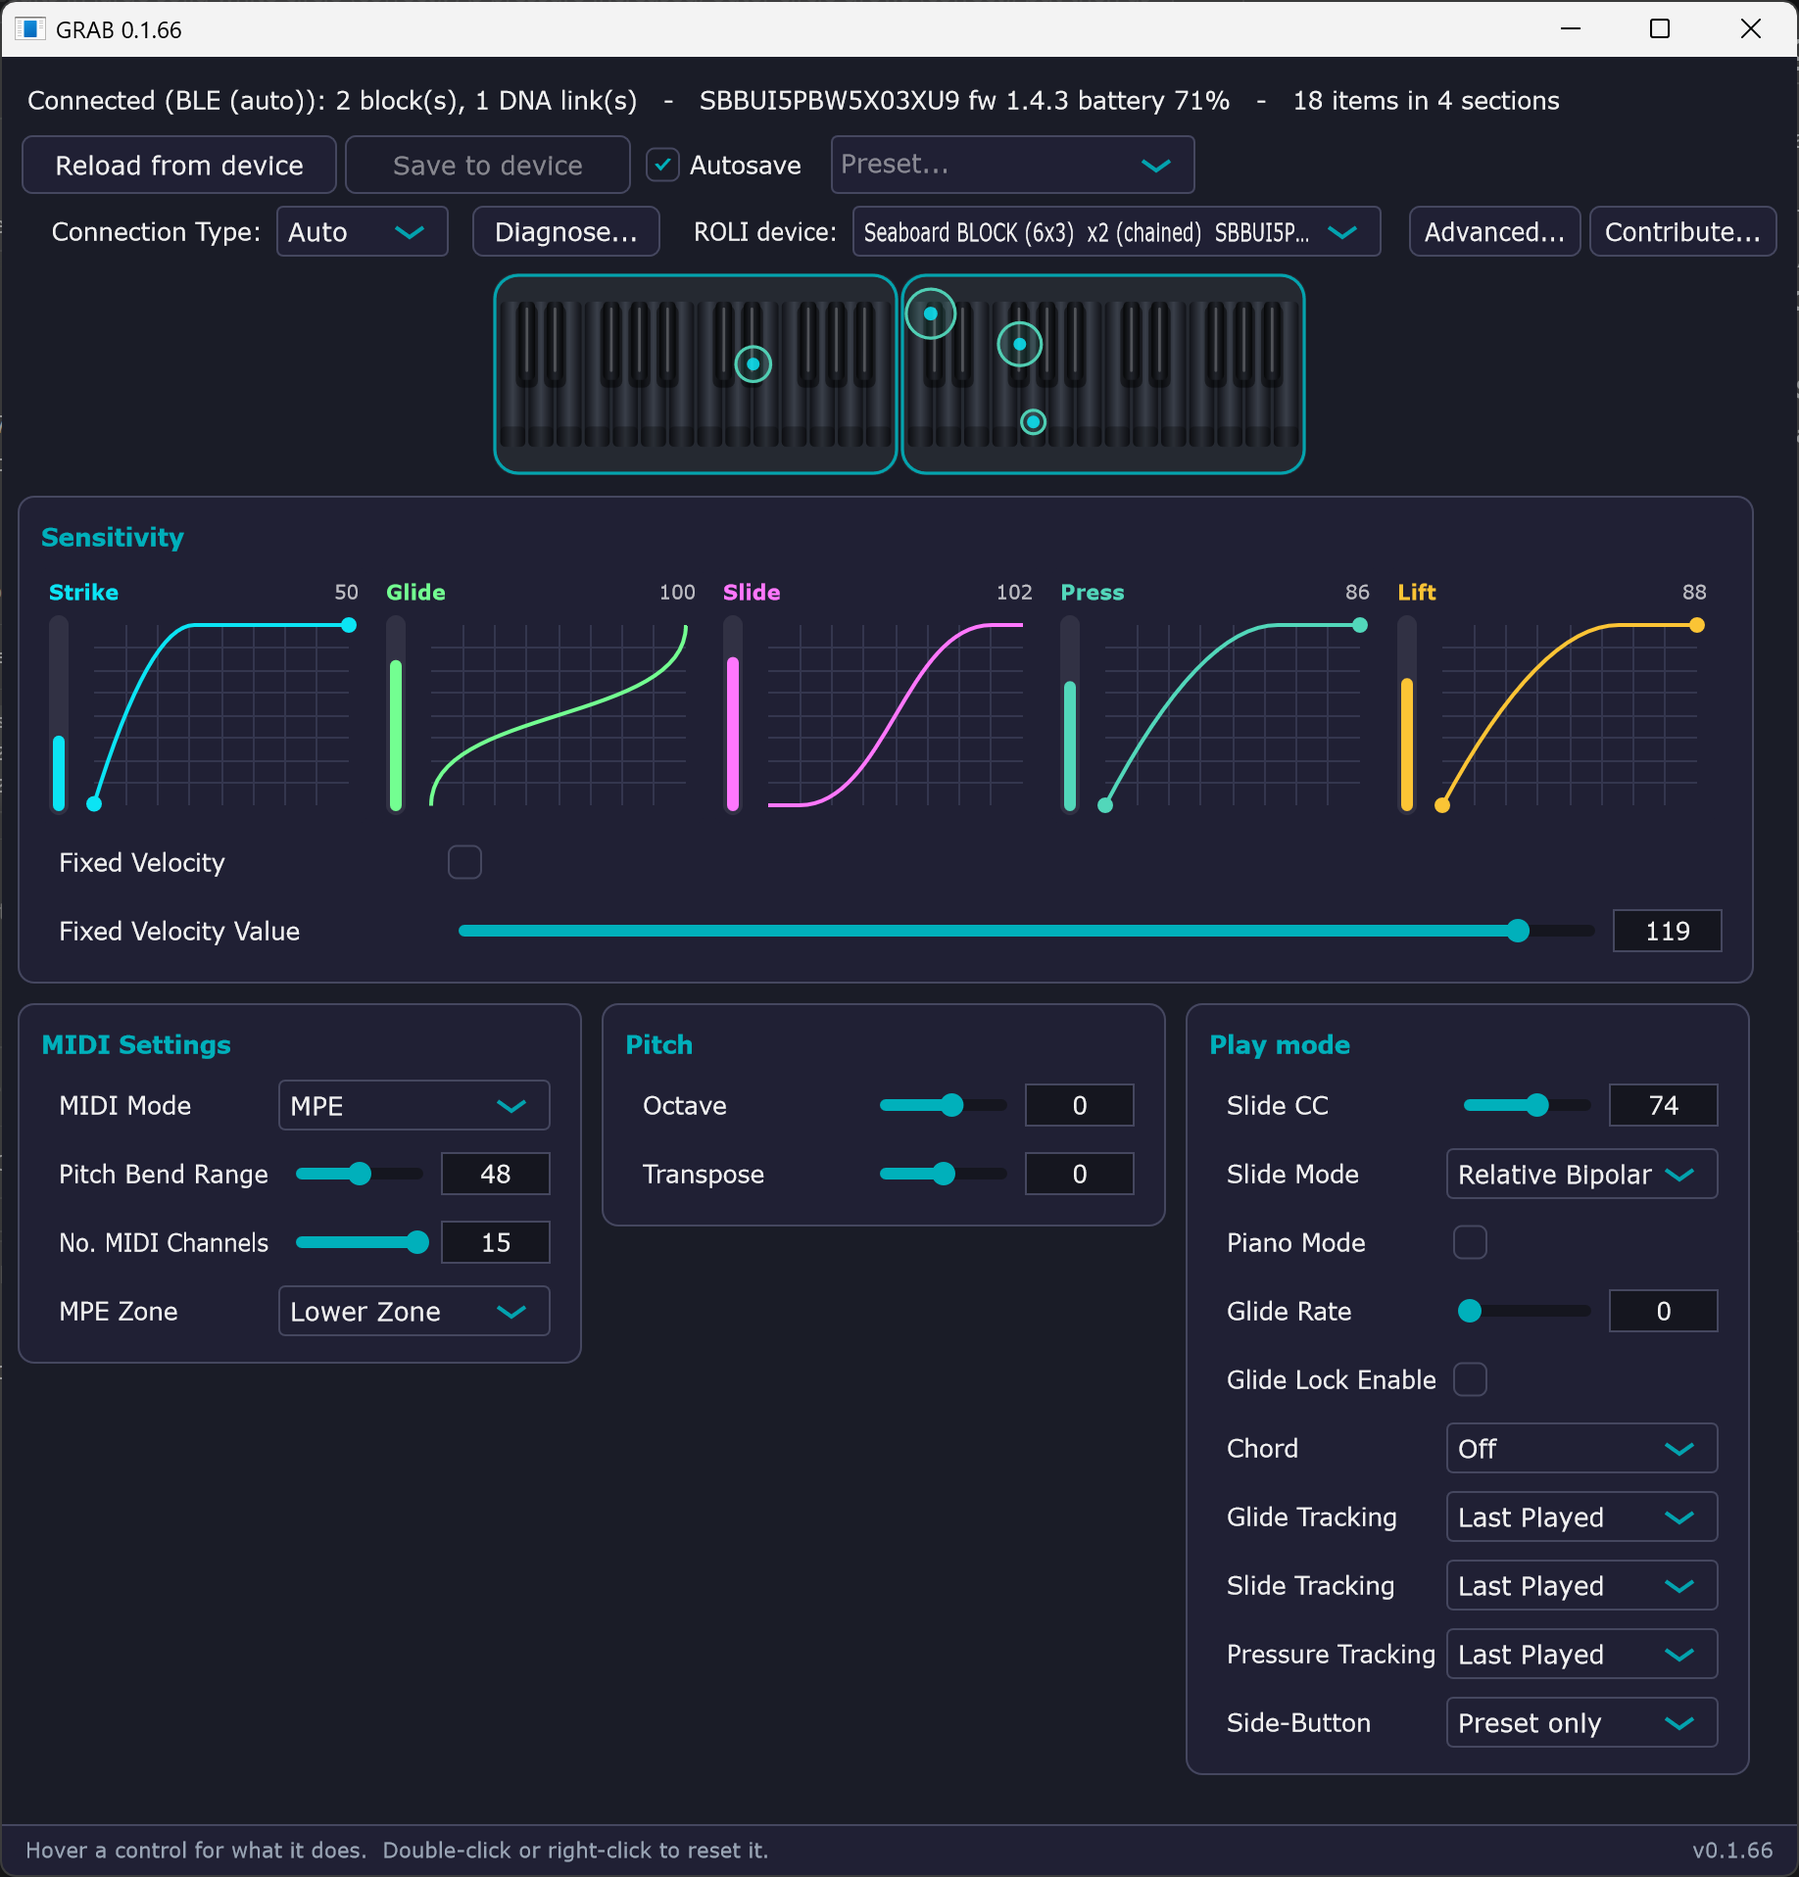
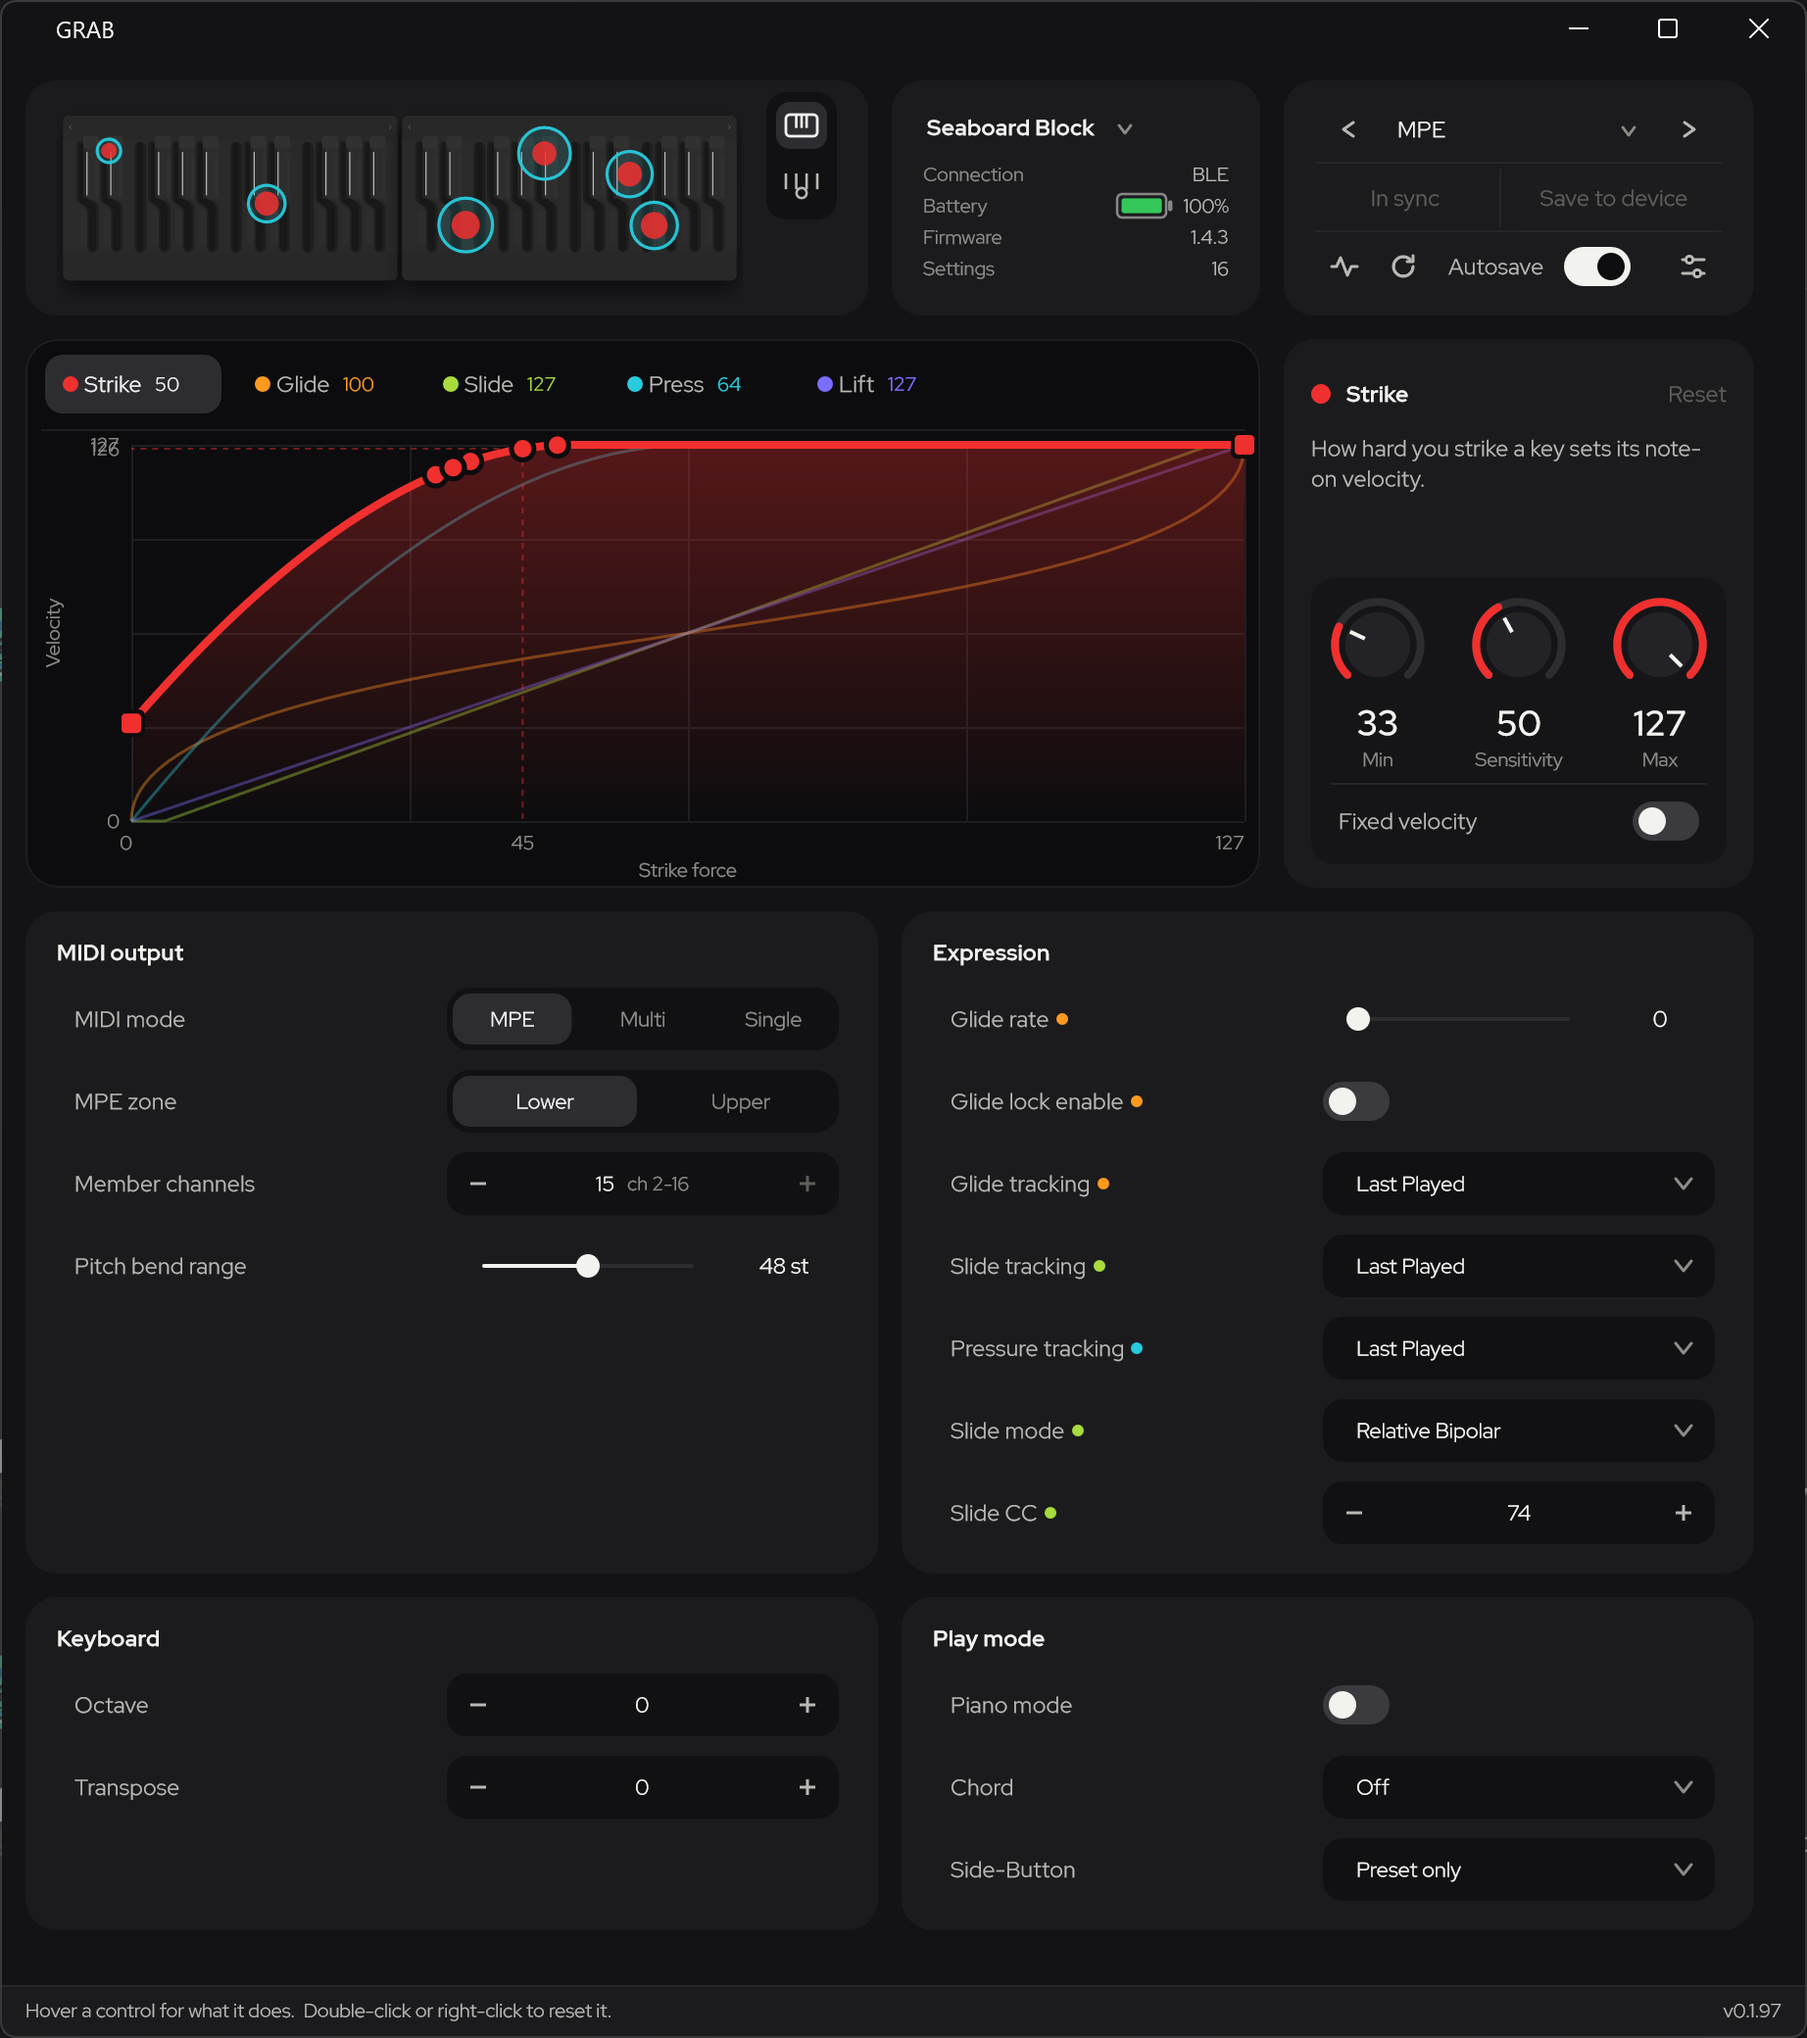
docs(readme): update screenshot to the v0.1.97 UI V2, refresh alt text

diff --git a/README.md b/README.md
@@ -10,7 +10,7 @@ instruments configurable and self-documents their protocol.
 
 <p align="center">
   <img src="docs/grab-screenshot.png" width="560"
-       alt="GRAB configuring a Seaboard Block: colour-coded 5D sensitivity curves with live touch rings on the keyboard graphic, and MIDI settings, pitch and play-mode cards below.">
+       alt="GRAB configuring a Seaboard Block in its FabFilter-style UI: one 5D sensitivity graph overlaying all five curves with live keypress dots, a Min/Sensitivity/Max inspector, the device drawing with touch rings, and MIDI output / expression / keyboard / play-mode cards below.">
 </p>
 
 ## Where it's at — v0.1.97
